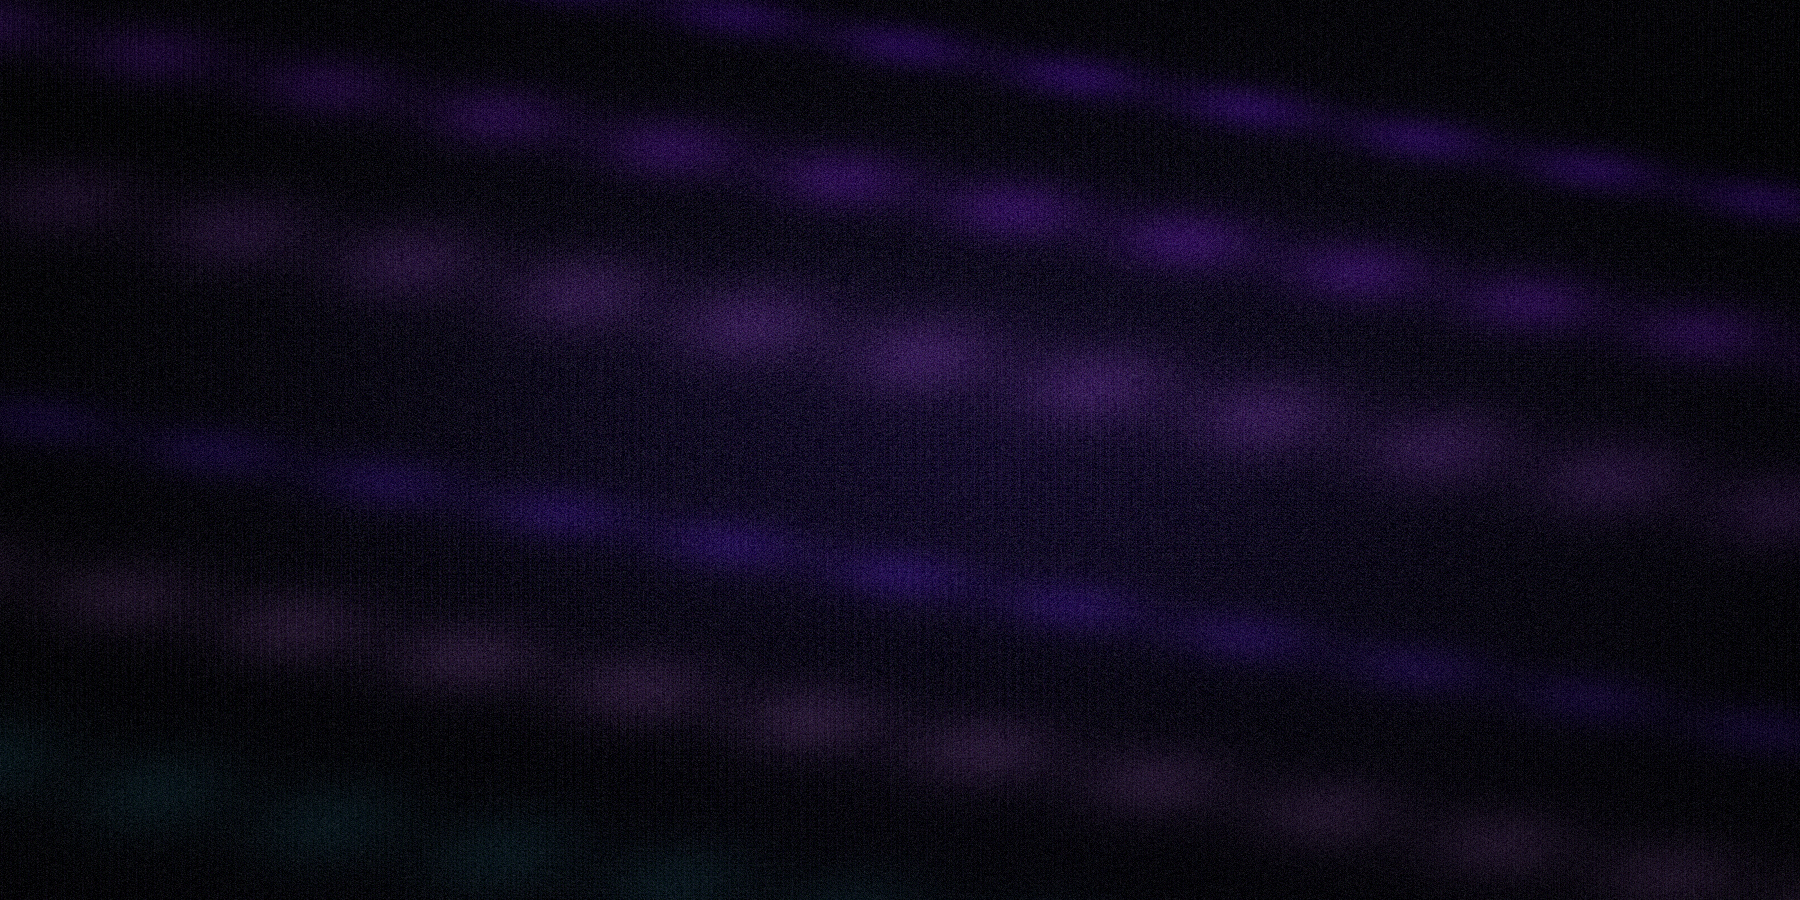
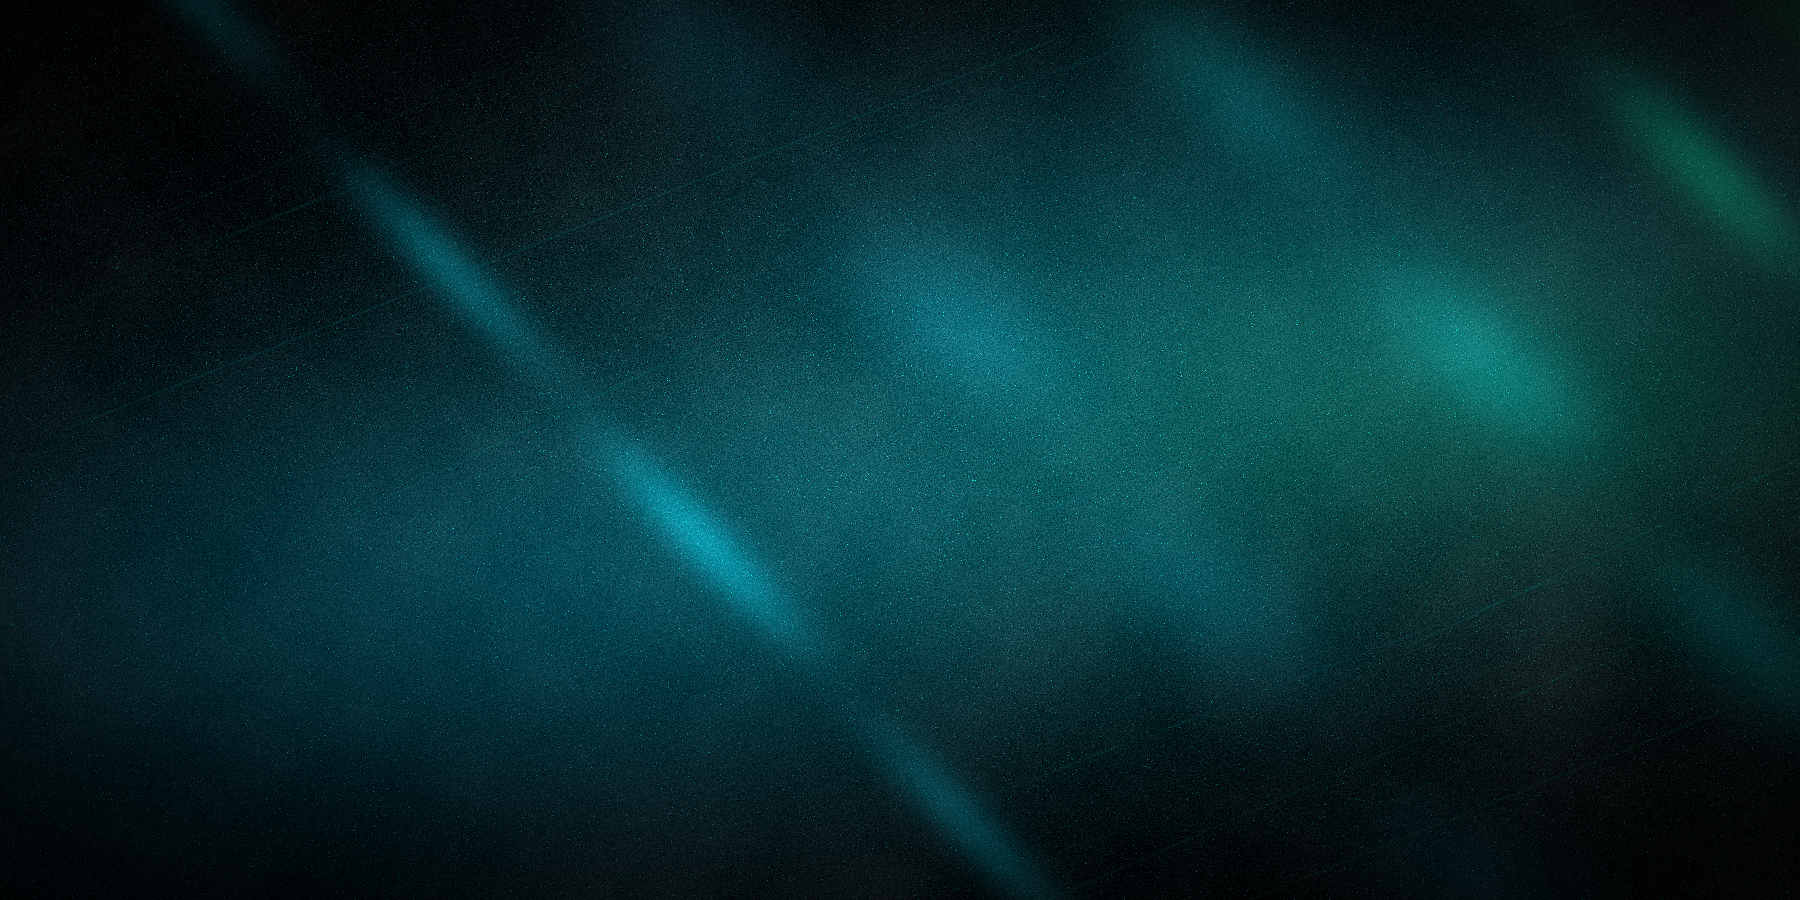
docs(website): improve homepage feature storytelling
Changed:
- Refresh the feature section layout, visual treatments, control copy, and footer CTA so the homepage reads more clearly across desktop and mobile.

diff --git a/website/docs/src/css/custom.css b/website/docs/src/css/custom.css
@@ -2255,27 +2255,28 @@ html[data-theme='dark'] .token {
 .handDocsHome__featureGrid {
   background: #000000;
   display: grid;
-  grid-template-columns: repeat(2, minmax(0, 1fr));
+  grid-template-columns: 1fr;
 }
 
 .handDocsHome__featureCard {
   border-bottom: 1px solid var(--hand-border);
-  border-right: 1px solid var(--hand-border);
+  border-right: 0;
   display: grid;
-  grid-template-rows: auto minmax(260px, 1fr);
-  min-height: 560px;
+  grid-template-columns: repeat(2, minmax(0, 1fr));
+  min-height: 420px;
   overflow: hidden;
 }
 
-.handDocsHome__featureCard:nth-child(2n) {
-  border-right: 0;
-}
-
-.handDocsHome__featureCard:nth-last-child(-n + 2) {
+.handDocsHome__featureCard:last-child {
   border-bottom: 0;
 }
 
 .handDocsHome__featureCopy {
+  align-self: stretch;
+  border-right: 1px solid var(--hand-border);
+  display: flex;
+  flex-direction: column;
+  justify-content: center;
   padding: clamp(2rem, 4.5vw, 3.75rem);
 }
 
@@ -2301,13 +2302,22 @@ html[data-theme='dark'] .token {
 .handDocsHome__featureVisual {
   align-items: center;
   background: #030507;
-  border-top: 1px solid var(--hand-border);
   display: flex;
   justify-content: center;
   min-height: 300px;
   overflow: hidden;
   padding: clamp(2rem, 4vw, 4rem);
   position: relative;
+}
+
+.handDocsHome__featureCard:nth-child(even) .handDocsHome__featureCopy {
+  border-left: 1px solid var(--hand-border);
+  border-right: 0;
+  order: 2;
+}
+
+.handDocsHome__featureCard:nth-child(even) .handDocsHome__featureVisual {
+  order: 1;
 }
 
 .handDocsHome__featureVisual span {
@@ -2321,19 +2331,25 @@ html[data-theme='dark'] .token {
     url('/img/hand-grain-bg.png') center / cover no-repeat,
     #030507;
   display: grid;
-  gap: 0.85rem;
-  grid-template-columns: repeat(2, minmax(130px, 190px));
+  gap: clamp(0.85rem, 1.6vw, 1.2rem);
+  grid-template-columns: repeat(2, minmax(0, 190px));
+  justify-content: center;
 }
 
 .handDocsHome__memoryVisual span {
-  background: #080c11;
-  border: 1px solid #263241;
-  border-radius: 999px;
-  color: #d5dfec;
+  align-items: center;
+  background: rgba(0, 0, 0, 0.78);
+  border: 2px solid #d7f9ff;
+  box-shadow: 6px 6px 0 #00a1ce;
+  color: #f4f7fb;
+  display: flex;
   font-family: var(--hand-code-font);
-  font-size: 0.8rem;
-  padding: 0.85rem 1rem;
-  text-align: center;
+  font-size: clamp(0.74rem, 0.9vw, 0.82rem);
+  font-weight: 800;
+  min-height: 5rem;
+  padding: 0.95rem 1rem;
+  text-transform: uppercase;
+  width: 100%;
 }
 
 .handDocsHome__toolsVisual {
@@ -2349,10 +2365,13 @@ html[data-theme='dark'] .token {
 }
 
 .handDocsHome__toolsVisual span {
-  background: #05070a;
-  border: 1px solid #202a36;
-  border-radius: 8px;
-  padding: 0.85rem 1rem;
+  background: rgba(0, 0, 0, 0.84);
+  border: 2px solid #d7f9ff;
+  box-shadow: 6px 6px 0 #00ffb2;
+  color: #f4f7fb;
+  font-weight: 800;
+  padding: 1rem 1.1rem;
+  text-transform: uppercase;
 }
 
 .handDocsHome__toolsVisual span:first-child,
@@ -2370,12 +2389,26 @@ html[data-theme='dark'] .token {
   background: #05070a;
   border: 1px solid #2a3442;
   border-radius: 14px;
-  color: #eef4fb;
+  color: #d7f9ff;
   display: flex;
-  font-weight: 750;
   height: clamp(5rem, 8vw, 7rem);
   justify-content: center;
+  transition:
+    border-color 160ms ease,
+    color 160ms ease,
+    transform 160ms ease;
   width: clamp(5rem, 8vw, 7rem);
+}
+
+.handDocsHome__gatewayVisual span:hover {
+  border-color: rgba(0, 215, 219, 0.62);
+  color: #00ffb2;
+}
+
+.handDocsHome__gatewayVisual svg {
+  display: block;
+  height: clamp(2rem, 3.2vw, 2.65rem);
+  width: clamp(2rem, 3.2vw, 2.65rem);
 }
 
 .handDocsHome__gatewayVisual span:nth-child(2) {
@@ -2387,30 +2420,80 @@ html[data-theme='dark'] .token {
 }
 
 .handDocsHome__controlVisual {
-  align-items: stretch;
-  color: #c9d4e3;
-  flex-direction: column;
+  background:
+    url('/img/hand-grain-bg.png') center / cover no-repeat,
+    #030507;
+  color: #dce7f5;
   font-family: var(--hand-code-font);
-  font-size: 0.84rem;
-  gap: 0.72rem;
 }
 
-.handDocsHome__controlVisual span {
-  border-bottom: 1px solid #1d2632;
-  padding: 0.7rem 0.2rem 0.9rem 1.6rem;
-  position: relative;
+.handDocsHome__controlPanel {
+  background: rgba(0, 0, 0, 0.82);
+  border: 2px solid #d7f9ff;
+  box-shadow: 7px 7px 0 #4c9dff;
+  display: grid;
+  gap: 1.05rem;
+  max-width: 520px;
+  padding: clamp(1.25rem, 2.5vw, 2rem);
+  width: min(100%, 520px);
 }
 
-.handDocsHome__controlVisual span::before {
-  background: #22ff50;
-  border-radius: 999px;
-  box-shadow: 0 0 16px rgba(34, 255, 80, 0.5);
-  content: '';
-  height: 0.48rem;
-  left: 0.25rem;
-  position: absolute;
-  top: 1rem;
-  width: 0.48rem;
+.handDocsHome__controlPanel strong {
+  color: #ffffff;
+  font-family: var(--ifm-heading-font-family);
+  font-size: clamp(1.25rem, 2.2vw, 1.75rem);
+  line-height: 1.15;
+}
+
+.handDocsHome__controlLabel {
+  color: var(--ifm-color-primary);
+  font-size: 0.76rem;
+  font-weight: 800;
+  text-transform: uppercase;
+}
+
+.handDocsHome__controlScope {
+  display: grid;
+  gap: 0.65rem;
+}
+
+.handDocsHome__controlScope span {
+  border: 1px solid #263241;
+  color: #c9d4e3;
+  padding: 0.72rem 0.85rem;
+}
+
+.handDocsHome__controlScope span:nth-child(1) {
+  border-color: rgba(34, 255, 80, 0.44);
+}
+
+.handDocsHome__controlScope span:nth-child(2) {
+  border-color: rgba(76, 157, 255, 0.58);
+}
+
+.handDocsHome__controlScope span:nth-child(3) {
+  border-color: rgba(255, 88, 116, 0.5);
+}
+
+.handDocsHome__controlActions {
+  display: grid;
+  gap: 0.75rem;
+  grid-template-columns: repeat(2, minmax(0, 1fr));
+}
+
+.handDocsHome__controlActions span {
+  border: 2px solid #d7f9ff;
+  color: #f4f7fb;
+  font-size: 0.78rem;
+  font-weight: 800;
+  padding: 0.8rem 0.85rem;
+  text-align: center;
+  text-transform: uppercase;
+}
+
+.handDocsHome__controlActions span:last-child {
+  background: #d7f9ff;
+  color: #030507;
 }
 
 .handDocsHome__footerCta {
@@ -2430,7 +2513,20 @@ html[data-theme='dark'] .token {
   margin: 0;
 }
 
+.handDocsHome__terminalSmall .handDocsHome__terminalBar {
+  color: #aeb8c7;
+  font-size: 0.74rem;
+}
+
+.handDocsHome__terminalSmall .handDocsHome__terminalBar span:last-child {
+  color: #00ffb2;
+  font-weight: 800;
+  text-transform: uppercase;
+}
+
 .handDocsHome__terminalSmall pre {
+  font-size: clamp(0.82rem, 1.35vw, 0.96rem);
+  line-height: 1.72;
   white-space: pre-wrap;
 }
 
@@ -2487,17 +2583,8 @@ html[data-theme='dark'] .token {
     border-bottom: 1px solid #2a313c;
   }
 
-  .handDocsHome__featureGrid,
   .handDocsHome__footerLinks {
     grid-template-columns: repeat(2, minmax(0, 1fr));
-  }
-
-  .handDocsHome__featureCard:nth-child(2n) {
-    border-right: 1px solid var(--hand-border);
-  }
-
-  .handDocsHome__featureCard:nth-last-child(-n + 2) {
-    border-bottom: 1px solid var(--hand-border);
   }
 }
 
@@ -2589,16 +2676,41 @@ html[data-theme='dark'] .token {
   }
 
   .handDocsHome__featureCard {
+    grid-template-columns: 1fr;
     grid-template-rows: auto minmax(220px, 1fr);
     min-height: 0;
   }
 
+  .handDocsHome__featureCard:last-child {
+    border-bottom: 1px solid var(--hand-border);
+  }
+
+  .handDocsHome__featureCopy,
+  .handDocsHome__featureCard:nth-child(even) .handDocsHome__featureCopy {
+    border-left: 0;
+    border-right: 0;
+    order: 1;
+  }
+
   .handDocsHome__featureVisual {
+    border-top: 1px solid var(--hand-border);
     min-height: 240px;
+    order: 2;
   }
 
   .handDocsHome__memoryVisual {
+    gap: 0.85rem;
     grid-template-columns: 1fr;
+  }
+
+  .handDocsHome__memoryVisual span {
+    box-shadow: 5px 5px 0 #00a1ce;
+    min-height: 0;
+    padding: 0.85rem 1rem;
+  }
+
+  .handDocsHome__memoryVisual span:nth-child(n) {
+    transform: none;
   }
 
   .handDocsHome__gatewayVisual {